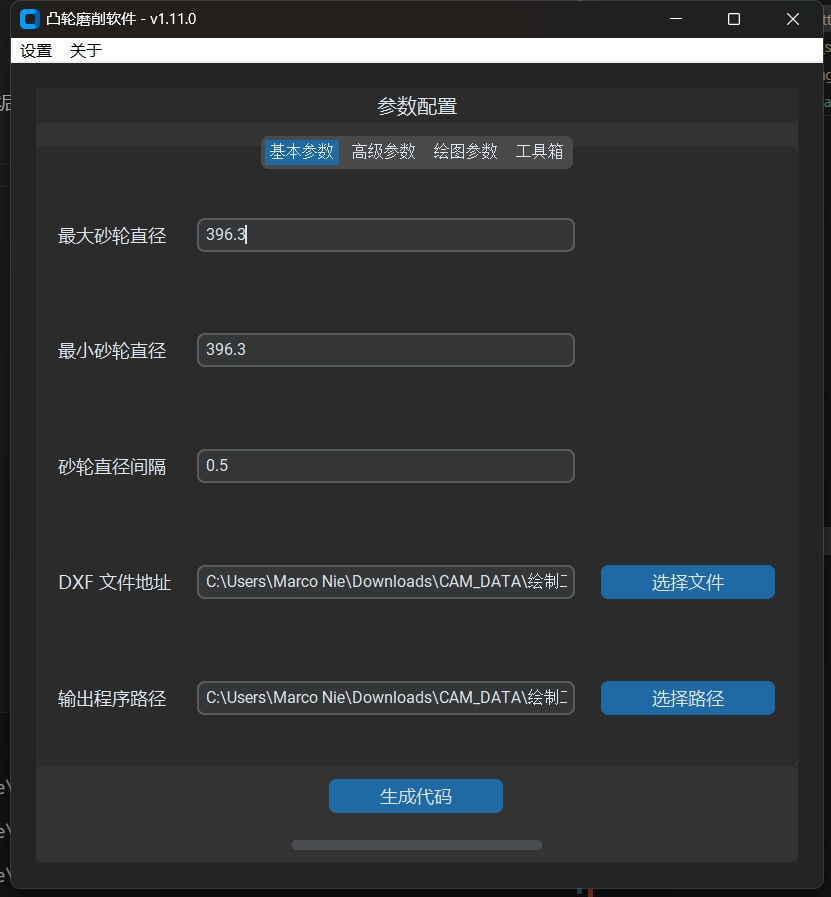
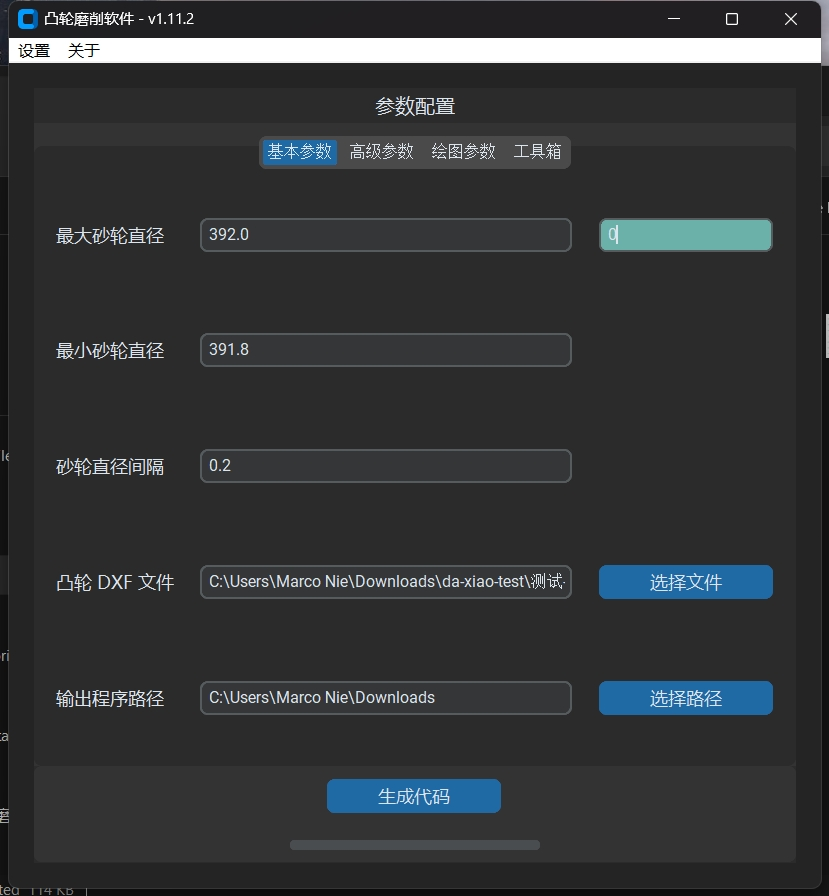
update

diff --git a/genaration/base.md b/genaration/base.md
@@ -17,6 +17,10 @@
 
 最小砂轮直径的设置值需要小于或等于最大砂轮直径。由于生成的加工代码会覆盖从最大砂轮直径到最小砂轮直径的范围，因此最小砂轮直径越小，生成的代码文件尺寸越大。通常情况下，应设置足够使用的直径范围即可。
 
+## 砂轮直径误差修正
+
+最大砂轮直径右侧的绿色输入框用于**系统设置的砂轮直径**和**实际砂轮直径**存在误差时，修复砂轮直径误差所引起的凸轮曲线加工误差。例如，当前系统设置的砂轮直径为 400 mm，实际砂轮直径为 405 mm，那么砂轮直径误差修正的值应设置为 5 mm。
+
 ## 砂轮直径间隔
 
 此参数决定了砂轮直径每变化多少 mm 时，重新计算一组新的加工代码。设置值越小，直径误差引起的曲线误差越小，但生成的代码文件尺寸也会增加。推荐设置为 0.5 mm。
